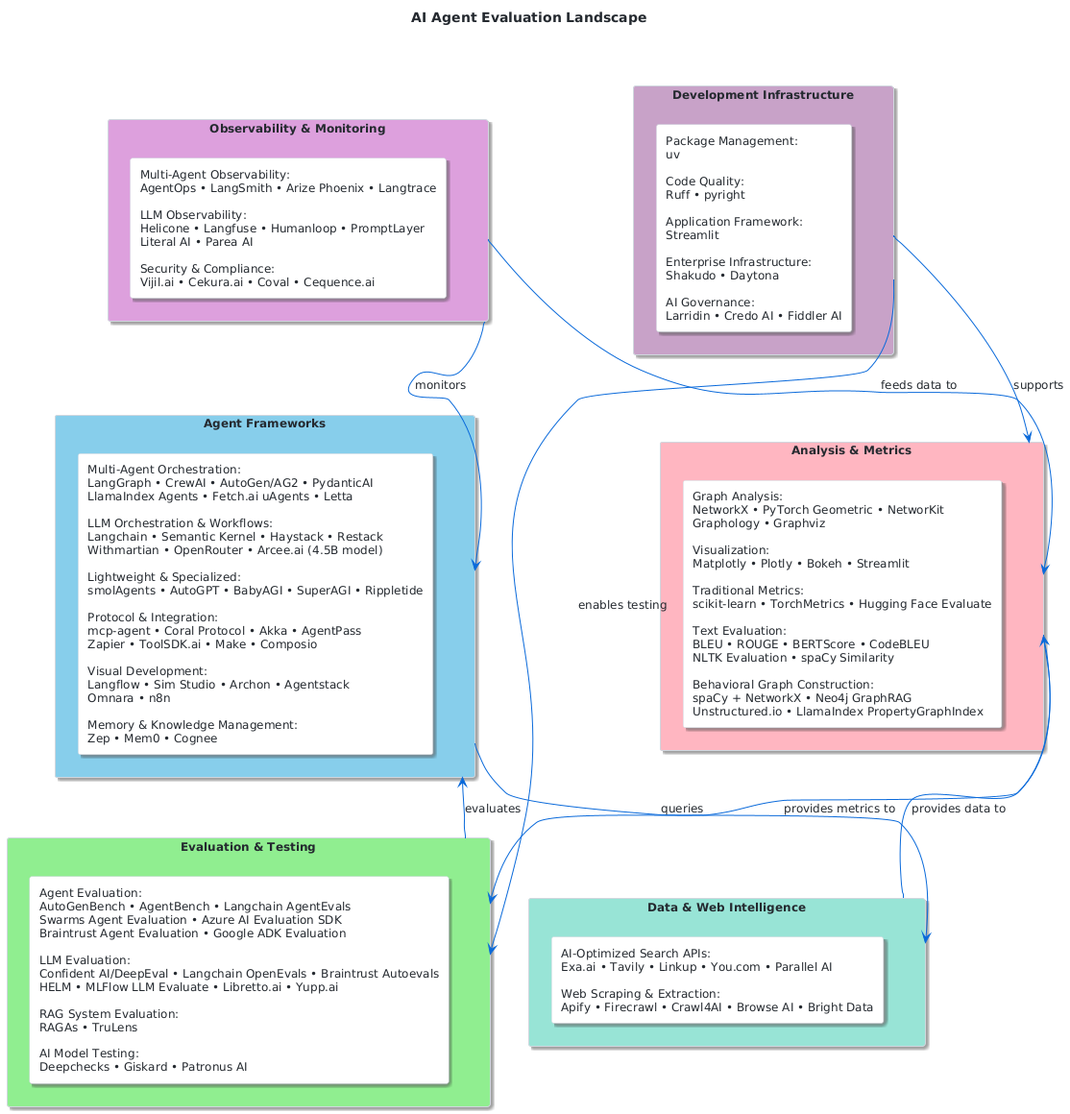
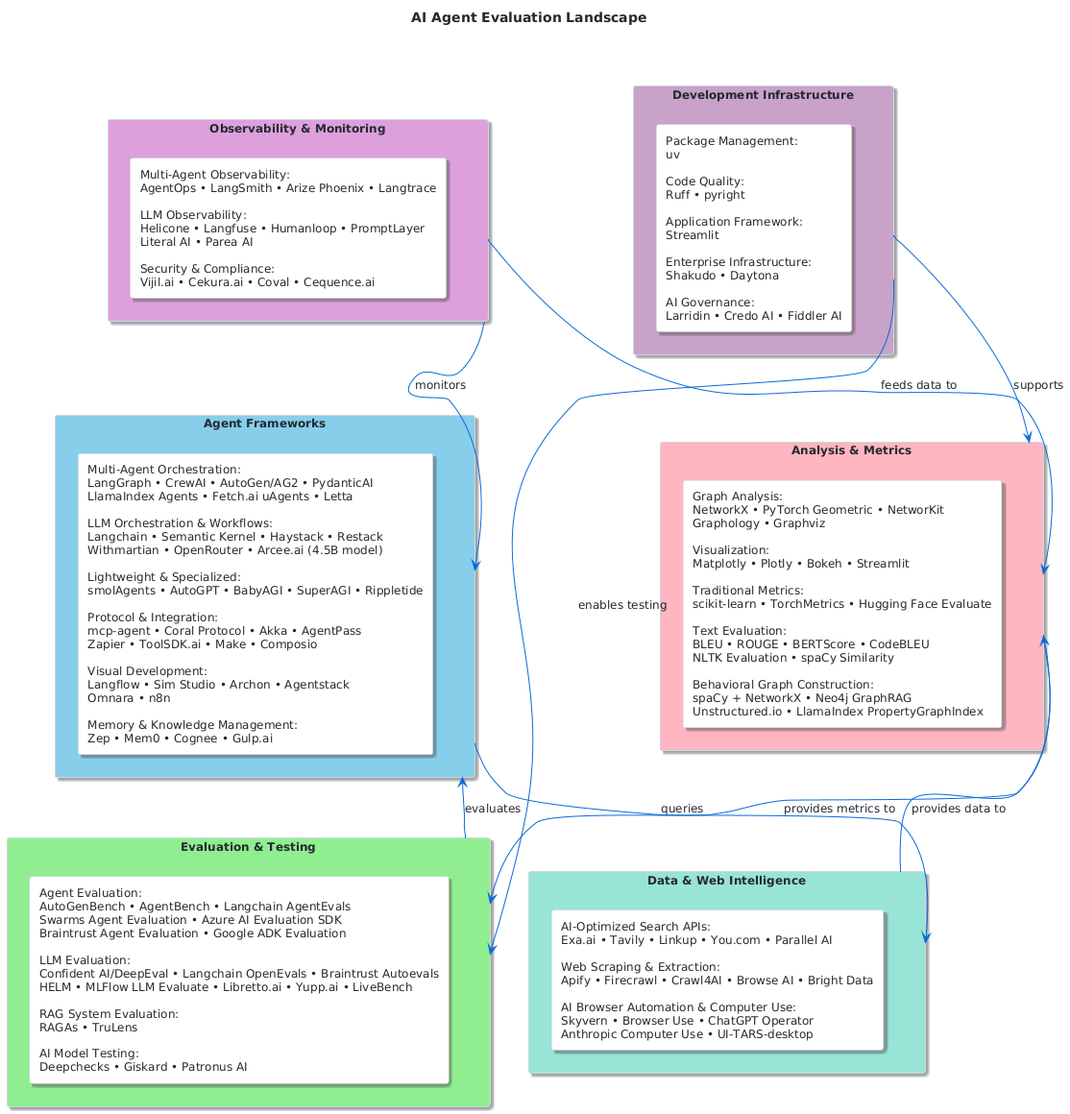
docs: Add composite scoring system and update architecture documentation
- Update architecture visualizations (dark/light images and PlantUML diagram) to reflect the new scoring components and expanded toolsets.

Changed region(s): [[0.4883, 0.7759, 0.8851, 0.9931], [0.3357, 0.869, 0.3662, 0.9], [0.2136, 0.6517, 0.2442, 0.6828]]

diff --git a/docs/landscape/landscape.md b/docs/landscape/landscape.md
@@ -1,4 +1,10 @@
-# AI Agent Evaluation Landscape
+---
+title: AI Agent Evaluation Landscape
+description: Comprehensive overview of the AI agent evaluation ecosystem, including frameworks, tools, datasets, and benchmarks relevant to the Agents-eval project
+date: 2025-08-31
+category: landscape
+version: 1.0.0
+---
 
 This document provides a comprehensive overview of the AI agent evaluation ecosystem, including frameworks, tools, datasets, and benchmarks relevant to the Agents-eval project. It includes technical details, feasibility assessments, integration scenarios, and GitHub URLs for all major platforms discussed. The platforms are organized by category with detailed Core Features, Technical Implementation sections, and project-specific integration guidance for the PeerRead evaluation use case.
 
@@ -39,7 +45,6 @@ This document provides a comprehensive overview of the AI agent evaluation ecosy
 - [Haystack](https://github.com/deepset-ai/haystack) - Production-ready LLM pipeline framework specialized in RAG applications, document processing workflows, and knowledge-intensive AI applications. **Core Features**: **RAG Optimization** - Built-in document processing, vector storage integration, retrieval pipeline optimization, semantic search capabilities; **Production Focus** - Scalable architecture, production deployment patterns, comprehensive monitoring, batch processing support; **Flexible Pipelines** - Custom pipeline creation, component modularity, multi-modal support (text, images, audio). **Technical Implementation**: Python framework with pipeline orchestration, vector database integrations, scalable processing architecture, comprehensive evaluation metrics. **High feasibility** with Apache 2.0 license, production focus, and comprehensive documentation. **Integration:** Build production-scale PeerRead document processing pipelines, implement efficient paper retrieval and indexing, establish scalable evaluation workflows with batch processing capabilities. **Sources:** [GitHub Repository](https://github.com/deepset-ai/haystack), [Haystack Documentation](https://docs.haystack.deepset.ai/)
 
 - [Restack](https://github.com/restackio) - Backend framework for reliable AI agents with event-driven workflows, long-running tasks, and built-in task queue management for resilient agent architectures. **Core Features**: **Event-Driven Architecture** - Workflow orchestration with event triggers, fault-tolerant execution, automatic retry mechanisms; **Multi-Language Support** - Python and TypeScript implementations, consistent API design, cross-platform compatibility; **Production Reliability** - Built-in task queues, distributed execution, monitoring and observability, graceful failure handling. **Technical Implementation**: Event-driven backend with workflow engines, distributed task processing, comprehensive state management, observability integration. **Medium feasibility** with Apache 2.0 license and modern architecture but requiring infrastructure setup. **Integration:** Implement resilient PeerRead evaluation workflows with automatic retry, establish distributed agent processing with fault tolerance, deploy production-grade evaluation systems with comprehensive monitoring and graceful failure recovery. **Sources:** [GitHub Repository](https://github.com/restackio), [Restack Documentation](https://docs.restack.io/)
-
 
 - [Withmartian](https://www.withmartian.com/) - AI model routing platform featuring Model Router® technology that dynamically routes prompts to optimal AI models for enhanced accuracy and cost efficiency. **Core Features**: **Dynamic Model Routing** - Intelligent prompt routing across hundreds of AI models, automatic model selection for optimal performance per task, guaranteed uptime through provider failover and redundancy; **Cost Optimization** - Up to 99.7% cost reduction through efficient model selection, automatic integration of new models as they become available, performance optimization balancing accuracy and expense; **Enterprise Integration** - Airlock® compliance assessment for new AI models, LLM Judge annotation tools for model performance evaluation, Model Gateway providing unified interface to access multiple LLMs. **Technical Implementation**: API-based routing platform with minimal code integration requirements, real-time model performance monitoring, simplified representations maintaining critical model performance and ethical behavior information. **Medium feasibility** requiring API key setup and integration but offering significant cost savings and reliability improvements. **Integration:** Implement cost-efficient PeerRead evaluation workflows by routing different analysis tasks to optimal models, establish reliable agent coordination with automatic failover during provider outages, deploy intelligent model selection for specialized evaluation tasks (literature review vs technical analysis vs writing assessment). **Sources:** [Withmartian Platform](https://www.withmartian.com/)
 
@@ -115,6 +120,18 @@ This document provides a comprehensive overview of the AI agent evaluation ecosy
 
 - [Bright Data AI](https://brightdata.com/ai) - Comprehensive web data platform designed to support the entire AI lifecycle with powerful data collection, web access, and infrastructure solutions at enterprise scale. **Core Features**: **AI Lifecycle Support** - Training data across formats (video, image, audio, text), remote browser infrastructure for AI agents, web data pipelines with archival retrieval; **Enterprise Web Access** - Seamless website access without blocks/CAPTCHAs, real-time search results from major engines, geo-targeted data collection with unlimited concurrency; **Advanced APIs** - Web Unlocker, Crawl API, SERP API, Browser API with Node.js/Python support, serverless data collection functions; **Enterprise Trust** - 20,000+ customers (McDonald's, UN, Deloitte), SOC/ISO/GDPR compliance, LangChain/LlamaIndex integrations. **Technical Implementation**: API-driven platform with multiple integration options, scalable infrastructure handling enterprise workloads, comprehensive compliance framework. **Medium feasibility** requiring enterprise investment and compliance validation but offering proven reliability with 20,000+ customers, comprehensive data infrastructure, and established LangChain/LlamaIndex integrations. **Integration:** Implement large-scale PeerRead paper collection with advanced Web Unlocker API for seamless access without blocks/CAPTCHAs, enable systematic academic database scraping using Crawl API with unlimited concurrency for massive dataset creation, establish enterprise-grade data pipelines for research paper aggregation using serverless functions with geo-targeted collection for international academic sources, leverage LangChain/LlamaIndex integrations for direct agent workflow connectivity. **Sources:** [Bright Data AI Platform](https://brightdata.com/ai), [Enterprise Solutions](https://brightdata.com/solutions)
 
+**AI Browser Automation & Computer Use:**
+
+- [Skyvern](https://www.skyvern.com/) - Open-source browser automation platform using LLMs and computer vision to automate complex workflows across any website without pre-defined selectors. **Core Features**: **Vision-Based Automation** - Uses Vision LLMs to learn and interact with websites rather than brittle XPath selectors, adapts to layout changes automatically, operates on previously unseen websites; **Complex Workflow Support** - Handles multi-step processes including form filling, data extraction, file downloads, authentication (including 2FA), proxy network and CAPTCHA solving in managed cloud version; **Production-Ready Architecture** - Real-time livestreaming for debugging, API-driven automation with simple endpoints, integrates with Zapier/Make.com/N8N, achieves 64.4% accuracy on WebBench benchmark. **Technical Implementation**: Built on Playwright browser automation, uses multi-agent architecture with planner-actor-validator loops, provides both self-hosted open-source and managed cloud versions with anti-bot detection mechanisms. **High feasibility** with AGPL-3.0 open-source license, Y Combinator backing, comprehensive documentation, and proven enterprise deployments. **Integration:** Implement automated academic paper collection from publisher websites with vision-based navigation, enable complex form filling for conference submission systems, establish reliable data extraction workflows for citation databases with automatic adaptation to website changes, use multi-agent coordination for systematic research data gathering across diverse academic platforms. **Sources:** [Skyvern Website](https://www.skyvern.com/), [GitHub Repository](https://github.com/Skyvern-AI/skyvern), [Skyvern Cloud](https://app.skyvern.com/)
+
+- [Browser Use](https://browser-use.com/) - Open-source Python library enabling AI agents to automate web browser interactions through natural language instructions with support for multiple LLM providers. **Core Features**: **Natural Language Control** - Tell agents what to do in plain language and they execute web tasks automatically, supports any LLM via LangChain integration (GPT-4, Claude, Llama), identifies all interactive elements on webpages for meaningful interactions; **Self-Correcting Architecture** - Built-in error handling with automatic recovery mechanisms, uses Playwright for unified browser control (Chromium, Firefox, WebKit), asyncio-based architecture for concurrent operations; **Extensible Framework** - Model Context Protocol (MCP) support for client integrations, modular design allowing custom tool development, Python 3.11+ compatibility with comprehensive SDK support. **Technical Implementation**: Agent-based system with configurable tools and workflows, MCP server architecture for extensibility, MIT licensed with active community development reaching 21,000+ GitHub stars. **High feasibility** with open-source MIT license, simple pip installation, comprehensive documentation, and strong community support with $17M seed funding. **Integration:** Implement natural language-driven academic paper discovery and analysis workflows, enable conversational research assistance for PeerRead evaluation tasks, establish self-correcting web interaction patterns for reliable data collection from academic databases, use MCP integration for seamless agent coordination in multi-step research workflows. **Sources:** [Browser Use Website](https://browser-use.com/), [GitHub Repository](https://github.com/browser-use/browser-use), [Documentation](https://docs.browser-use.com/)
+
+- [ChatGPT Operator](https://operator.chatgpt.com/) - OpenAI's first general-purpose agent (now integrated as ChatGPT agent mode) that can browse the web and perform complex tasks using its own virtual computer with advanced reasoning capabilities. **Core Features**: **Computer-Using Agent (CUA)** - Powered by specialized model combining GPT-4o vision with reinforcement learning, processes raw pixel data to understand screen interfaces, uses virtual mouse and keyboard for task completion; **Autonomous Task Execution** - Handles multi-step workflows from form filling to travel booking, adapts to unexpected changes and errors automatically, performs complex reasoning while taking actions; **Enterprise Integration** - Evolved from standalone Operator to integrated ChatGPT agent mode, available to Pro/Plus/Team subscribers, proactive tool selection from agentic skill toolbox. **Technical Implementation**: Vision-language model trained on GUI interactions, reinforcement learning for task optimization, virtual computer environment for safe execution, advanced prompt injection defenses and security monitoring. **Medium feasibility** requiring ChatGPT Pro subscription ($200/month) but offering state-of-the-art computer use capabilities with OpenAI's research backing and continuous model improvements. **Integration:** Implement automated academic research workflows with intelligent web navigation, enable complex form-based data collection from conference and journal submission systems, establish sophisticated multi-step evaluation processes using virtual computer capabilities, leverage advanced reasoning for complex academic task automation requiring contextual understanding. **Sources:** [OpenAI Operator](https://openai.com/index/introducing-operator/), [ChatGPT Agent](https://openai.com/index/introducing-chatgpt-agent/), [Help Center](https://help.openai.com/en/articles/10421097-operator)
+
+- [Anthropic Computer Use Tool](https://docs.anthropic.com/en/docs/agents-and-tools/tool-use/computer-use-tool) - Claude's beta computer use capability enabling AI agents to interact with desktop environments through screenshot analysis, mouse control, and keyboard input for automated task completion. **Core Features**: **Desktop Automation** - Take screenshots and analyze screen content, perform mouse actions (click, move, drag), execute keyboard input and shortcuts, interact with any standard computer interface; **API Integration** - Available through Anthropic API, Amazon Bedrock, and Google Cloud Vertex AI, supports both computer-use-2024-10-22 and computer-use-2025-01-24 versions, RESTful API with comprehensive documentation; **Computer Vision Excellence** - Achieves 14.9% on OSWorld benchmark (vs 7.7% next-best competitor), processes visual interfaces at pixel level for precise interaction, handles complex multi-step desktop workflows. **Technical Implementation**: Vision-language model trained on GUI interactions, pixel-coordinate-based cursor control, beta implementation requiring sandbox environments, follows standard tool use pricing with additional tokens for screenshots. **Medium feasibility** due to beta status and latency limitations but offering unique desktop automation capabilities from leading AI research company with proven computer vision performance. **Integration:** Implement automated academic paper analysis workflows using desktop PDF readers and annotation tools, enable systematic data entry for research databases through native desktop applications, establish computer vision-based quality control for document processing workflows, use desktop automation for complex academic software interactions requiring precise interface control. **Sources:** [Computer Use Documentation](https://docs.anthropic.com/en/docs/build-with-claude/computer-use), [Anthropic News](https://www.anthropic.com/news/3-5-models-and-computer-use), [API Reference](https://docs.anthropic.com/en/docs/agents-and-tools/tool-use/computer-use-tool)
+
+- [UI-TARS-desktop](https://github.com/bytedance/UI-TARS-desktop) - ByteDance's open-source multimodal AI agent stack for GUI automation using vision-language models with native desktop and remote browser operation capabilities. **Core Features**: **Multimodal GUI Control** - Native GUI agent powered by UI-TARS and Seed-1.5-VL/1.6 series models, natural language control with screenshot-based visual recognition, supports both local and remote computer/browser operations; **Cross-Platform Architecture** - Available in multiple model sizes (2B, 7B, 72B parameters), works across Windows/MacOS/Browser environments, @ui-tars/sdk provides cross-platform toolkit for agent development; **Production-Ready Framework** - Real-time feedback and status display, fully local processing for privacy, protocol-driven event streaming, comprehensive logging and monitoring capabilities. **Technical Implementation**: Apache 2.0 licensed open-source project, vision-language model architecture optimized for GUI interactions, supports multiple AI providers (Volcengine, Anthropic), research-backed with academic paper "UI-TARS: Pioneering Automated GUI Interaction with Native Agents". **High feasibility** with open-source Apache 2.0 license, comprehensive documentation, multiple model size options, and active ByteDance development with academic research backing. **Integration:** Implement cross-platform academic research workflows with native desktop application control, enable precise GUI automation for complex academic software interactions, establish vision-based document processing pipelines using multiple model sizes for different complexity tasks, leverage remote browser operation capabilities for distributed research data collection across multiple environments. **Sources:** [GitHub Repository](https://github.com/bytedance/UI-TARS-desktop), [UI-TARS SDK](https://github.com/bytedance/UI-TARS-desktop/blob/main/docs/sdk.md), [Research Paper](https://arxiv.org/abs/2501.12326)
+
 **No-Code Data Extraction:**
 
 - [Browse AI](https://www.browse.ai/) - AI-powered point-and-click data extraction platform enabling automated website monitoring and scraping without coding requirements. **Core Features**: **No-Code Interface** - Point-and-click data extraction with AI-powered layout adaptation, handles pagination automatically, supports complex sites with login requirements; **Scalable Automation** - Extract up to 500K pages simultaneously, automated monitoring for data changes, intelligent CAPTCHA solving capabilities; **Enterprise Integration** - 7,000+ application integrations, direct connections to Google Sheets/Airtable/Zapier, API & webhooks for custom workflows. **Technical Implementation**: Cloud-based platform with intelligent site adaptation, automated workflow orchestration, comprehensive integration framework supporting enterprise deployments. **High feasibility** with accessible pricing ($19-500/month), no-code approach reducing technical barriers, and extensive 7,000+ application integrations for seamless workflow connectivity. **Integration:** Implement automated academic paper monitoring for new publications using point-and-click interface with no coding required, enable large-scale citation and metadata extraction (up to 500K pages) with intelligent pagination handling for comprehensive dataset creation, establish systematic data collection workflows for PeerRead dataset expansion with direct Google Sheets integration for immediate data access, use API & webhooks for custom agent workflow triggers and automated processing pipelines. **Sources:** [Browse AI Platform](https://www.browse.ai/), [Integration Documentation](https://docs.browse.ai/), [API Documentation](https://docs.browse.ai/api/introduction)
@@ -128,6 +145,8 @@ This document provides a comprehensive overview of the AI agent evaluation ecosy
 - [Mem0](https://github.com/mem0ai/mem0) - Universal memory layer for AI agents with multi-level memory management and adaptive personalization capabilities demonstrating significant performance improvements over traditional approaches. **Core Features**: **Multi-Level Memory Management** - User, session, and agent state memory layers with adaptive personalization, cross-platform SDK support with developer-friendly API integration; **Performance Optimization** - +26% accuracy improvement over OpenAI Memory, 91% faster responses compared to full-context methods, 90% lower token usage for cost efficiency; **Intelligent Context Management** - Searches relevant memories before generating responses, creates new memories from conversations, supports various LLM backends with gpt-4o-mini as default. **Technical Implementation**: Apache 2.0 open-source with both hosted platform and self-hosted deployment options, supports multiple LLM providers with intelligent memory extraction and retrieval algorithms. **High feasibility** with open-source licensing, comprehensive SDK support, and demonstrated performance benchmarks from academic research validation on LOCOMO benchmark. **Integration:** Implement multi-level memory management for PeerRead agent coordination, enable adaptive personalization for review quality improvement over time, establish efficient context retrieval to reduce token costs while maintaining evaluation accuracy across Manager/Researcher/Analyst/Synthesizer interactions. **Sources:** [GitHub Repository](https://github.com/mem0ai/mem0), [Mem0 Platform](https://mem0.ai/), [Research Paper](https://arxiv.org/abs/2504.19413)
 
 - [Cognee](https://www.cognee.ai/) - Open-source AI memory engine with advanced knowledge graph infrastructure for intelligent data structuring and contextual reasoning beyond pattern-based approaches. **Core Features**: **Knowledge Graph Infrastructure** - Dynamic knowledge representation with RDF-based ontologies, supports actual reasoning instead of pattern-based guessing, distributed system capable of handling large-scale data processing; **Multi-Format Data Ingestion** - Supports 30+ data types (PDF, DOCX, SQL, MP3, etc.), integrates with multiple AI models (OpenAI, Gemini, Ollama), provides memory layers for agent-scoped context management; **Advanced Reasoning Capabilities** - Custom ontology and reasoner development support, 92.5% answer relevancy compared to traditional RAG approaches, fully customizable and deployable on user's own servers. **Technical Implementation**: Python SDK with multiple vector and graph database support (LanceDB, Qdrant, Weaviate), multi-tenant architecture with cloud storage configuration, asynchronous memory operations with REST API server deployment. **High feasibility** with fully open-source customizable framework, comprehensive deployment options (EC2, Kubernetes, Modal serverless), and extensive integration capabilities. **Integration:** Implement knowledge graph-based memory for PeerRead agent coordination with RDF ontologies for academic domain reasoning, enable multi-format paper ingestion and processing with 30+ data type support, establish sophisticated reasoning capabilities for academic review generation with custom ontology development for peer review domain expertise. **Sources:** [Cognee Platform](https://www.cognee.ai/), [Cognee Documentation](https://docs.cognee.ai/)
+
+- [Gulp.ai (Osmosis API)](https://docs.gulp.ai/introduction) - AI agent improvement platform designed to help developers create smarter, more context-aware AI agents through intelligent knowledge management and learning from past interactions. **Core Features**: **Contextual Enhancement** - Enriches agent responses with relevant past knowledge using powerful vector similarity search, enables agents to learn and adapt from previous interactions, attaches edge cases to input prompts directly for cleaner system prompts; **Knowledge Storage & Management** - Store and retrieve interaction histories with semantic search capabilities, maintain structured queryable knowledge bases, perform knowledge uploads with job status tracking; **Continuous Learning** - Advanced learning algorithms to improve agent responses based on past successes, eliminates need for extensive edge case handling in system prompts, enables context-aware knowledge attachment for enhanced agent intelligence. **Technical Implementation**: REST API with endpoints for /enhance_task, /store_knowledge, /delete_by_intent, and /knowledge_status, authentication-based access control, early access program with founder contact for API access. **Medium feasibility** requiring early access approval and API key setup but offering unique agent improvement capabilities with semantic knowledge management and learning algorithms. **Integration:** Implement intelligent context enhancement for PeerRead agent coordination using past evaluation successes, store and retrieve academic review patterns for continuous agent improvement, establish semantic search capabilities for relevant paper knowledge during evaluation processes, enable edge case handling through contextual knowledge attachment rather than complex system prompts. **Sources:** [Gulp.ai Documentation](https://docs.gulp.ai/introduction), [Contact](mailto:founders@gulp.ai)
 
 ### Development Infrastructure
 
@@ -189,7 +208,7 @@ This document provides a comprehensive overview of the AI agent evaluation ecosy
 
 - [Swarms Agent Evaluation](https://docs.swarms.world/en/latest/guides/agent_evals) - Comprehensive multi-agent evaluation framework with continuous monitoring, dynamic assessment criteria, and holistic performance tracking for swarm-based agent systems. **Evaluation Metrics**: **Core Performance** - Accuracy percentage, precision, recall, F1 score; **Operational** - Response time, task completion rate, error rate; **Behavioral** - Real-time action monitoring, periodic systematic evaluations, correctness criteria comparison; **Continuous** - Baseline performance establishment, regular comparative evaluations, user feedback incorporation. **High feasibility** with Python implementation and adaptable evaluation criteria for various agent types. **Integration:** Implement continuous performance tracking for Manager/Researcher/Analyst/Synthesizer coordination during PeerRead evaluation, establish quantitative performance baselines, integrate user feedback loops for review quality assessment, and use realistic scenario testing with regular comparative evaluations for multi-agent coordination effectiveness.
 
-- [Confident AI/DeepEval](https://www.confident-ai.com/) - Enterprise LLM evaluation platform combining open-source DeepEval framework with production-grade monitoring and testing capabilities for comprehensive AI system validation. **Core Features**: **End-to-End Evaluation** - Benchmarking and testing of complete AI systems with 30+ LLM-as-a-judge metrics, prompt and model performance validation in minutes after development; **Regression Testing & CI/CD** - Unit tests for LLM applications with CI/CD pipeline integration, automated detection and mitigation of performance regressions, component-level evaluation with tailored metrics; **Enterprise Compliance** - HIPAA and SOC II compliant infrastructure, multi-region data residency (US/EU), role-based access control with data masking, 99.9% uptime SLA with optional on-premises deployment. **Technical Implementation**: Python-based DeepEval framework with pytest integration, enterprise platform with comprehensive monitoring dashboards, automated test generation from production traffic, real-time performance tracking with alert systems. **High feasibility** with free tier availability, open-source foundation requiring minimal setup, proven enterprise adoption by major companies including Accenture, AWS, and Cisco. **Integration:** Implement comprehensive PeerRead evaluation pipelines using DeepEval's 30+ metrics for academic review quality assessment, establish regression testing for agent coordination patterns with automated CI/CD integration, deploy enterprise-grade monitoring for production academic review generation with compliance-ready audit trails. **Note:** See also [DeepEval](#llm-evaluation-benchmarking) for the open-source testing framework. **Sources:** [Confident AI Platform](https://www.confident-ai.com/), [DeepEval Documentation](https://deepeval.com/), [GitHub Repository](https://github.com/confident-ai/deepeval), [Y Combinator Profile](https://www.ycombinator.com/companies/confident-ai)
+- [Confident AI/DeepEval](https://www.confident-ai.com/) - Enterprise LLM evaluation platform combining open-source DeepEval framework with production-grade monitoring and testing capabilities for comprehensive AI system validation. **Core Features**: **End-to-End Evaluation** - Benchmarking and testing of complete AI systems with 30+ LLM-as-a-judge metrics, prompt and model performance validation in minutes after development; **Regression Testing & CI/CD** - Unit tests for LLM applications with CI/CD pipeline integration, automated detection and mitigation of performance regressions, component-level evaluation with tailored metrics; **Enterprise Compliance** - HIPAA and SOC II compliant infrastructure, multi-region data residency (US/EU), role-based access control with data masking, 99.9% uptime SLA with optional on-premises deployment. **Technical Implementation**: Python-based DeepEval framework with pytest integration, enterprise platform with comprehensive monitoring dashboards, automated test generation from production traffic, real-time performance tracking with alert systems. **High feasibility** with free tier availability, open-source foundation requiring minimal setup, proven enterprise adoption by major companies including Accenture, AWS, and Cisco. **Integration:** Implement comprehensive PeerRead evaluation pipelines using DeepEval's 30+ metrics for academic review quality assessment, establish regression testing for agent coordination patterns with automated CI/CD integration, deploy enterprise-grade monitoring for production academic review generation with compliance-ready audit trails. **Note:** See also [DeepEval](#llm-evaluation--benchmarking) for the open-source testing framework. **Sources:** [Confident AI Platform](https://www.confident-ai.com/), [DeepEval Documentation](https://deepeval.com/), [GitHub Repository](https://github.com/confident-ai/deepeval), [Y Combinator Profile](https://www.ycombinator.com/companies/confident-ai)
 
 - [Libretto.ai](https://www.libretto.ai/) - Comprehensive AI model monitoring and testing platform specializing in automated LLM failure detection and performance optimization with real-time alerting capabilities. **Core Features**: **Automated Failure Detection** - Real-time monitoring for model drift, jailbreak attempts, and performance degradation, automated test set generation from production traffic, instant evaluation of model and prompt performance changes; **Performance Optimization** - Prompt testing and optimization tools with A/B testing capabilities, continuous improvement workflows for AI products, automated detection of model quality issues before they impact users; **Enterprise Monitoring** - SOC2-compliant monitoring infrastructure, real-time intelligence about LLM usage patterns, seamless integration via drop-in SDK with minimal code changes. **Technical Implementation**: SDK-based monitoring with production traffic analysis, automated test generation and evaluation systems, real-time alerting and dashboard infrastructure, SOC2-compliant data handling and security measures. **Medium feasibility** requiring SDK integration and subscription setup but offering significant automation in LLM testing and monitoring workflows. **Integration:** Implement automated monitoring for PeerRead evaluation agent performance with real-time drift detection, establish continuous testing workflows for academic review quality optimization, deploy enterprise-grade monitoring for production agent coordination with automated failure detection and alerting systems. **Sources:** [Libretto Platform](https://www.libretto.ai/)
 
@@ -217,13 +236,15 @@ This document provides a comprehensive overview of the AI agent evaluation ecosy
 
 **Suitable for This Project:**
 
-- [DeepEval](https://github.com/confident-ai/deepeval) - Pytest-like testing framework for LLM outputs with 14+ research-backed metrics including hallucination detection, faithfulness, and relevancy scoring. **High feasibility** with pytest-familiar syntax, simple pip installation, and developer-friendly documentation. **Integration:** Write test functions that evaluate generated PeerRead reviews using @deepeval.evaluate() decorators with metrics like AnswerRelevancyMetric, FaithfulnessMetric, and HallucinationMetric. **Note:** See also [Confident AI/DeepEval](#agent-evaluation-benchmarking) for the enterprise platform built around this framework.
+- [DeepEval](https://github.com/confident-ai/deepeval) - Pytest-like testing framework for LLM outputs with 14+ research-backed metrics including hallucination detection, faithfulness, and relevancy scoring. **High feasibility** with pytest-familiar syntax, simple pip installation, and developer-friendly documentation. **Integration:** Write test functions that evaluate generated PeerRead reviews using @deepeval.evaluate() decorators with metrics like AnswerRelevancyMetric, FaithfulnessMetric, and HallucinationMetric. **Note:** See also [Confident AI/DeepEval](#agent-evaluation--benchmarking) for the enterprise platform built around this framework.
 
 - [Langchain OpenEvals](https://github.com/langchain-ai/openevals) - Prebuilt LLM-as-a-judge evaluators for structured output extraction and tool calling evaluation with local model support. **High feasibility** with minimal setup, prebuilt evaluators, and seamless LangChain ecosystem integration. **Integration:** Use prebuilt evaluators like create_llm_as_judge() with academic review quality prompts to automatically score generated PeerRead reviews on technical accuracy, clarity, and constructiveness.
 
 - [Braintrust Autoevals](https://github.com/braintrustdata/autoevals) - Comprehensive AI evaluation toolkit with multi-dimensional assessment capabilities for systematic model output evaluation across various complexity levels. **Evaluation Metrics**: **LLM-as-a-Judge** - Factuality, semantic matching, contextual assessment; **RAG Evaluation** - Context precision/recall, answer relevancy, retrieval accuracy; **Embedding Analysis** - Semantic similarity, vector space assessment; **Heuristic Checks** - Rule-based validation, composite evaluations; **Security Assessment** - Moderation checks, safety evaluation. **High feasibility** with Python and TypeScript support, flexible API design, and configurable AI provider backends. **Integration:** Implement systematic PeerRead review evaluation using factuality and semantic matching assessments, apply RAG evaluation metrics for context precision analysis, and establish composite evaluation workflows for comprehensive agent performance measurement.
 
 - [HELM](https://github.com/stanford-crfm/helm) - Stanford's Holistic Evaluation of Language Models framework providing standardized benchmarks across 16 core scenarios with 7 comprehensive metrics (accuracy, calibration, robustness, fairness, bias, toxicity, efficiency) for comprehensive model assessment. **Medium feasibility** with extensive benchmark coverage but requiring significant computational resources for full evaluation suites. **Integration:** Use HELM's multi-metric approach to evaluate underlying LLM performance on academic tasks, assess model bias and fairness for PeerRead review generation, and benchmark different foundation models before agent implementation. **Source:** [Stanford CRFM](https://crfm.stanford.edu/helm/)
+
+- [LiveBench](https://livebench.ai/) - Dynamic contamination-free LLM benchmark with frequently-updated questions from recent sources and objective ground-truth scoring to address test set contamination and evaluation reliability issues. **Core Features**: **Contamination-Free Design** - Monthly question releases from recent datasets, arXiv papers, news articles, and movie synopses to limit potential contamination, harder versions of previous benchmarks (Big-Bench Hard, AMPS, IFEval); **Objective Scoring** - Automatic scoring according to verifiable ground-truth values without LLM judges, 18 diverse tasks across 6 categories (reasoning, math, coding, language, data analysis, instruction following); **Research-Grade Evaluation** - ICLR 2025 Spotlight Paper, 960 questions with top models achieving below 70% accuracy, all questions, code, and model answers released for transparency. **Technical Implementation**: Python evaluation framework with `run_livebench.py` script, parallel evaluation with tmux sessions and configurable API requests, supports OpenAI-compatible endpoints and multiple model providers, YAML configuration for flexible model setup. **High feasibility** with open-source implementation, comprehensive documentation, and active monthly updates ensuring current relevance. **Integration:** Implement contamination-free evaluation of PeerRead agent LLM components using monthly-updated academic reasoning tasks, establish objective scoring benchmarks for review generation quality without judge bias, validate agent performance across diverse reasoning, language, and analysis tasks relevant to academic evaluation, use parallel evaluation framework for systematic agent comparison and improvement tracking. **Sources:** [LiveBench Website](https://livebench.ai/), [GitHub Repository](https://github.com/LiveBench/LiveBench), [Research Paper](https://arxiv.org/abs/2406.19314)
 
 - [MLFlow LLM Evaluate](https://mlflow.org/docs/latest/llms/llcheckm-evaluate/index.html) - Enterprise-grade evaluation platform with comprehensive experiment tracking and comparison capabilities. **Medium-low feasibility** due to complex setup requirements, tracking server infrastructure, and steep learning curve for basic evaluation tasks.
 

diff --git a/CHANGELOG.md b/CHANGELOG.md
@@ -28,6 +28,13 @@ and this project adheres to [Semantic Versioning](https://semver.org/spec/v2.0.0
 - GitHub models integration with OpenAI-compatible API
 - Three-tier evaluation system with traditional metrics, LLM-as-judge, and trace collection
 - Typed Pydantic models for LLM assessment results (TechnicalAccuracyAssessment, ConstructivenessAssessment, PlanningRationalityAssessment)
+- Composite scoring system integrating all three evaluation tiers into unified assessment
+- MetricNormalizer with six normalization functions for consistent scoring ranges
+- CompositeScorer with weighted aggregation of normalized metrics 
+- RecommendationEngine with threshold-based paper acceptance recommendations
+- TierIntegrationManager orchestrating fallback handling for missing evaluation tiers
+- Performance-optimized composite scoring achieving <100ms latency target
+- Comprehensive test suite with >95% coverage for composite scoring system
 - Enhanced type safety with explicit type annotations for trace processors and evaluation pipelines
 - Modern datetime handling with timezone-aware UTC timestamps
 - Comprehensive exception handling patterns for evaluation fallback mechanisms

diff --git a/docs/architecture.md b/docs/architecture.md
@@ -1,4 +1,10 @@
-# Agents-eval Architecture
+---
+title: Agents-eval Architecture
+description: Detailed architecture information for the Agents-eval Multi-Agent System (MAS) evaluation framework
+date: 2025-08-31
+category: architecture
+version: 1.0.0
+---
 
 This document provides detailed architecture information for the Agents-eval Multi-Agent System (MAS) evaluation framework.
 

diff --git a/docs/landscape/trace_observe_methods.md b/docs/landscape/trace_observe_methods.md
@@ -10,8 +10,7 @@ tags:
   - ai-agents
   - technical-analysis
   - graph-construction
-author: AI Research Team
-version: 0.0.1
+version: 1.0.0
 requires_further_investigation: true
 investigation_notes: Needs deeper source code analysis of actual tracing implementations and observation mechanisms within each tool's codebase
 ---

diff --git a/docs/landscape/agent_eval_metrics.md b/docs/landscape/agent_eval_metrics.md
@@ -8,8 +8,7 @@ tags:
   - agent-evaluation
   - metrics
   - peerread-evaluation
-author: AI Research Team
-version: 0.1.0
+version: 1.0.0
 ---
 
 Comprehensive catalog of evaluation metrics for AI agent systems, with
